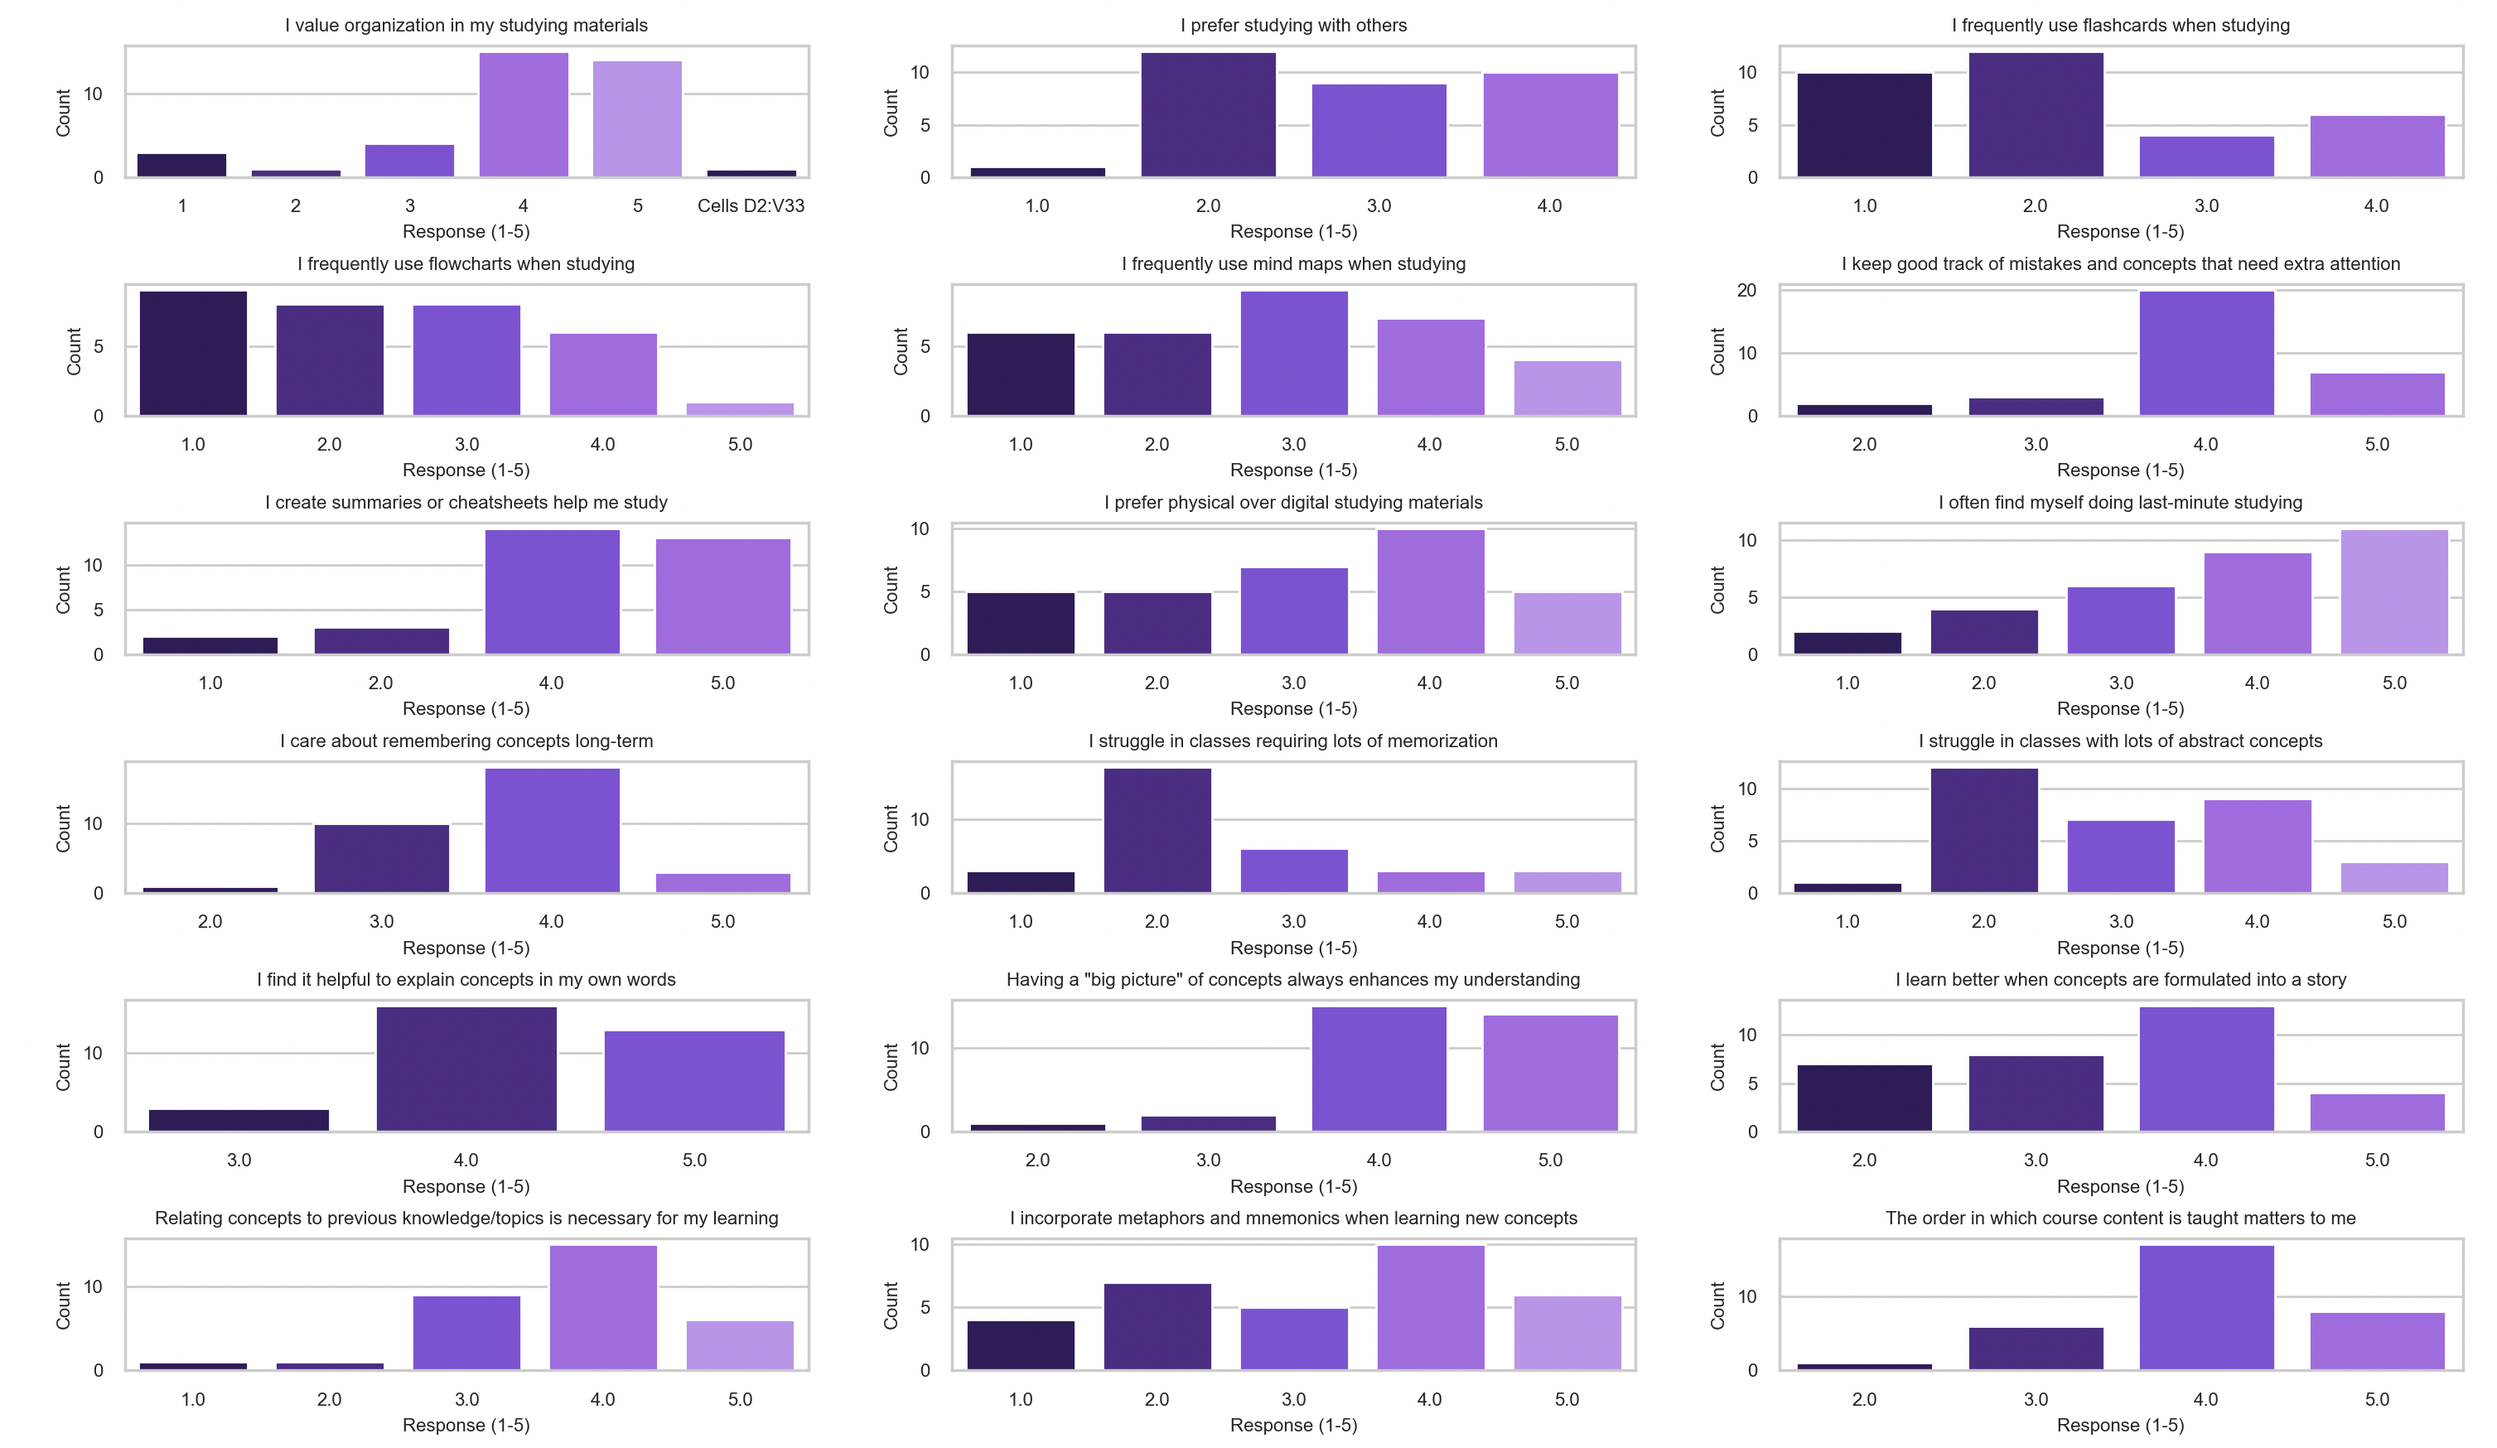
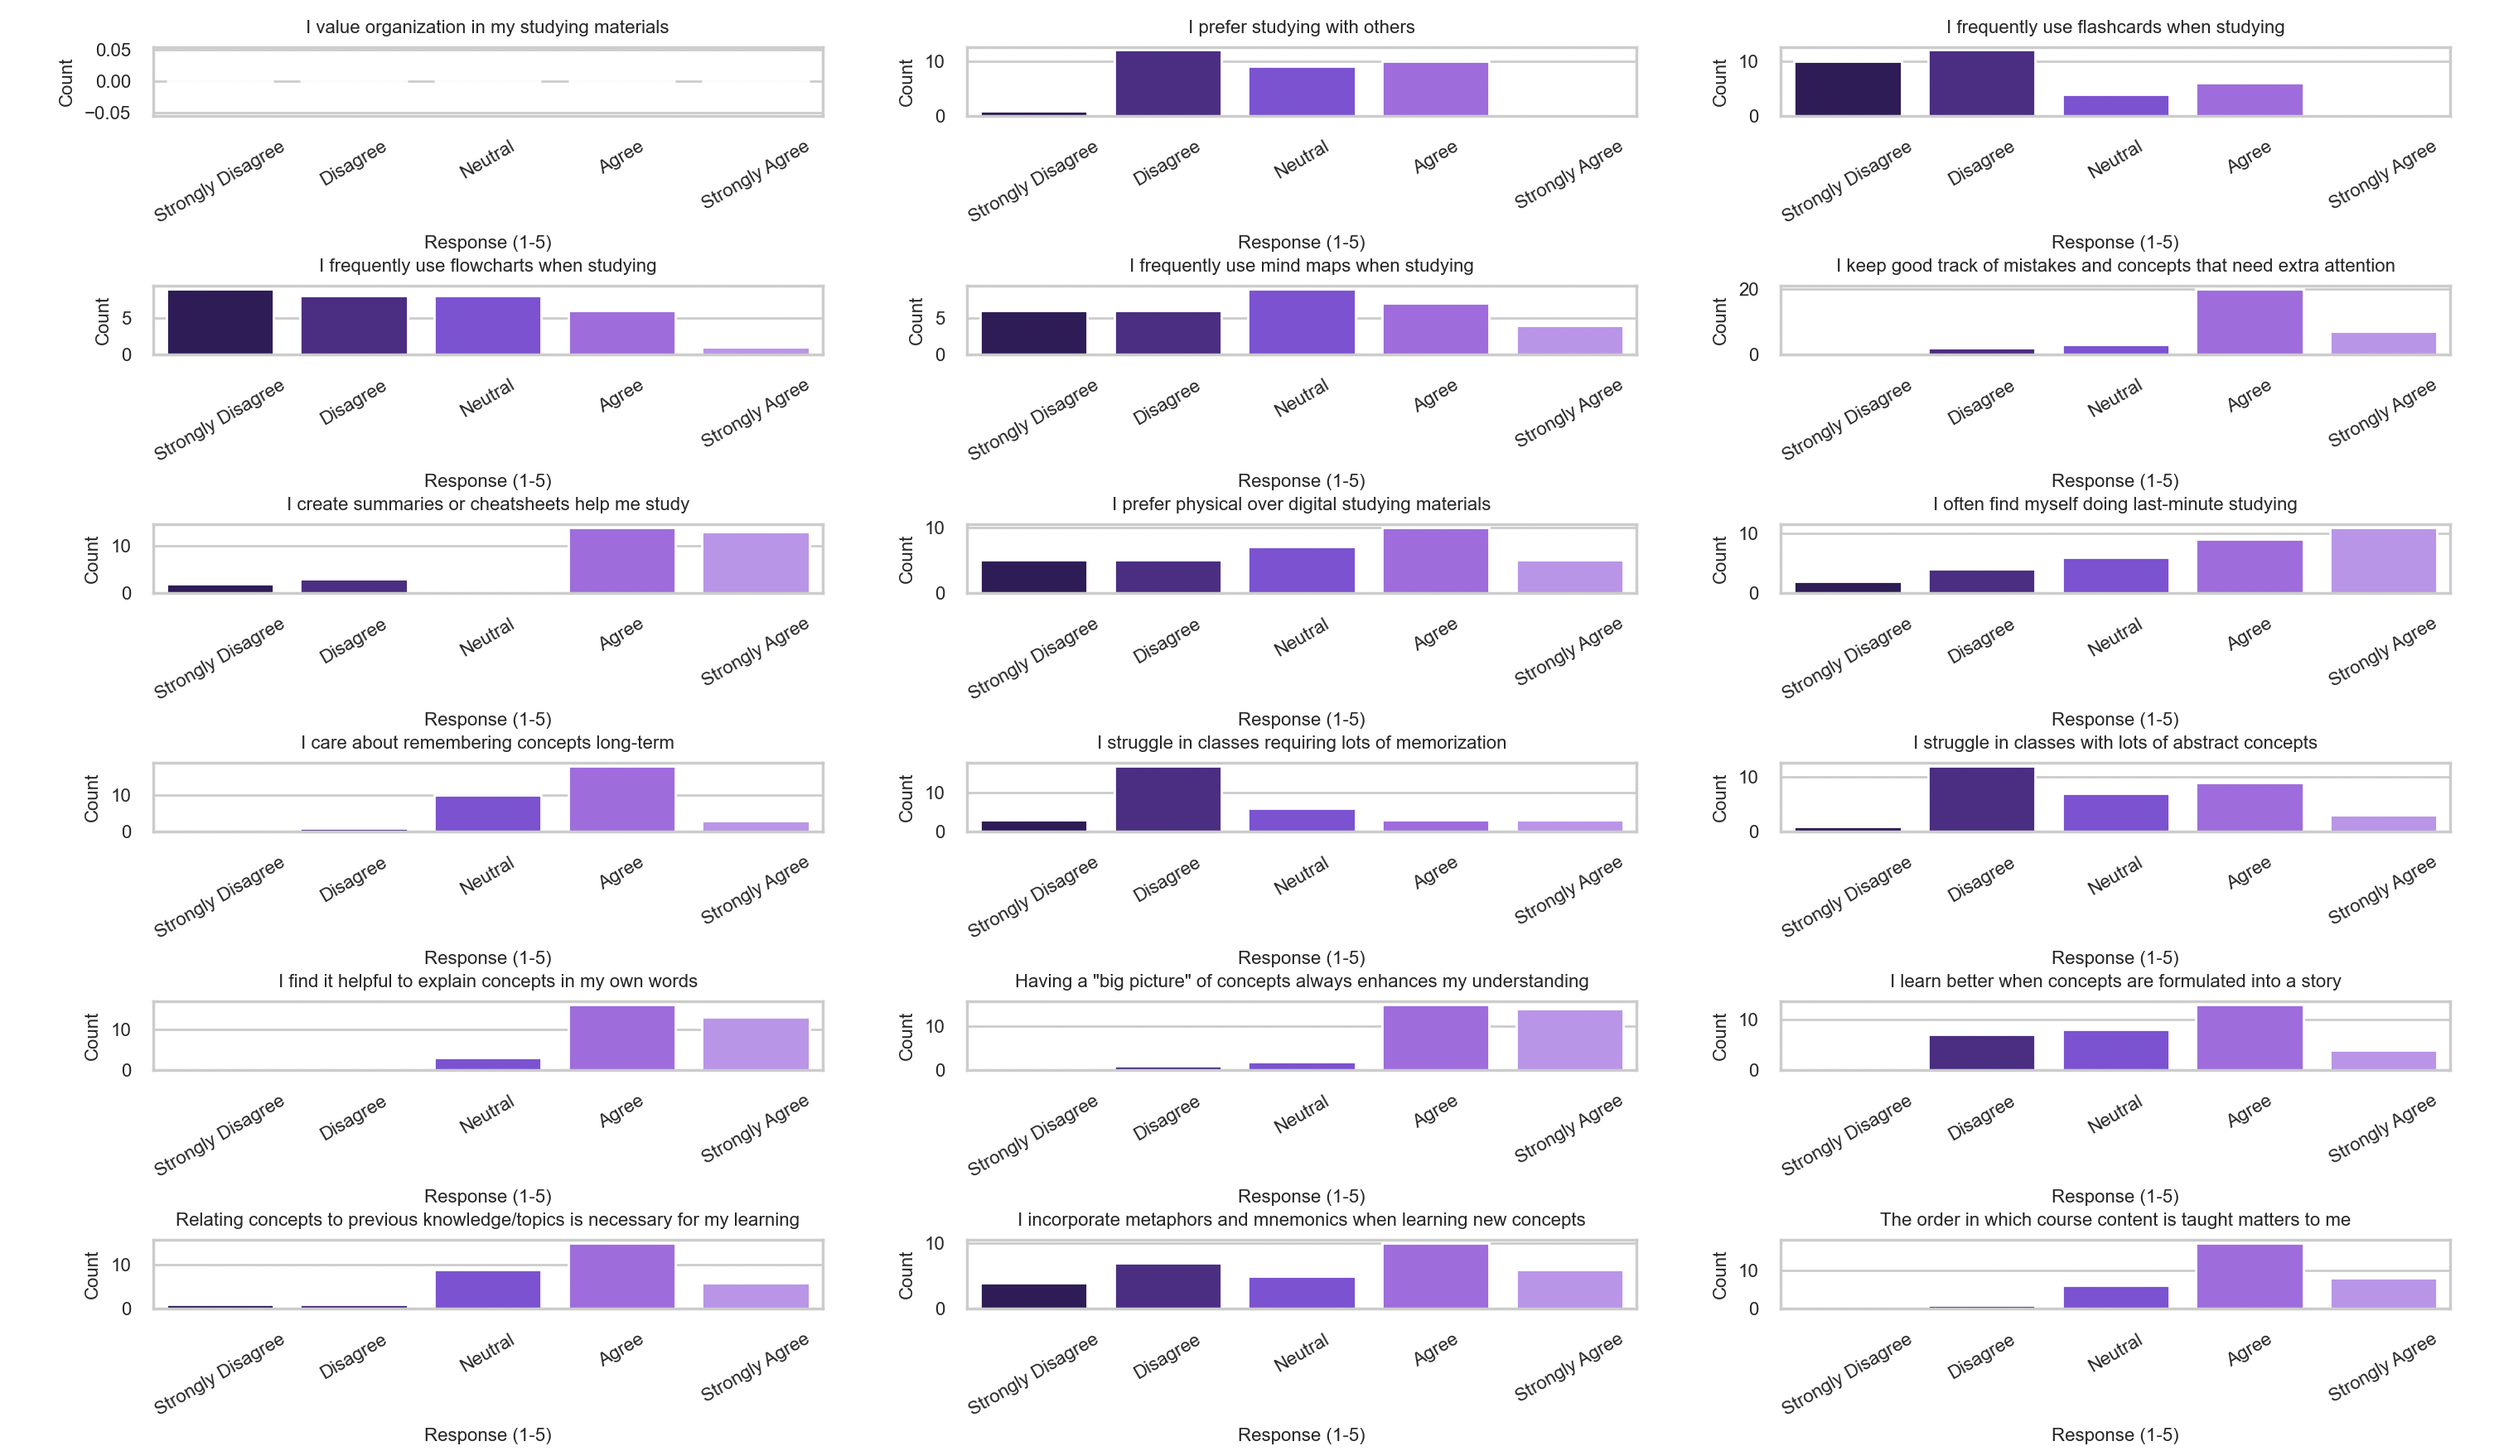
Fixed graph labels

diff --git a/main.py b/main.py
@@ -16,6 +16,7 @@ axes = axes.ravel()
 
 for i, column in enumerate(study_habits.columns):
     counts = study_habits[column].value_counts().sort_index()
+    counts = counts.reindex(range(1, 6), fill_value=0)  # Fill missing with 0
 
     title = re.search(r"\[(.*?)\]", column).group(1)
 
@@ -31,6 +32,13 @@ for i, column in enumerate(study_habits.columns):
     axes[i].set_xlabel("Response (1-5)", fontsize=8)
     axes[i].set_ylabel("Count", fontsize=8)
     axes[i].tick_params(labelsize=8)
+
+    # Set custom x-axis labels
+    axes[i].set_xticks(range(5))  # 0-4 for zero-indexed xtick positions
+    axes[i].set_xticklabels(
+        ["Strongly Disagree", "Disagree", "Neutral", "Agree", "Strongly Agree"],
+        rotation=30,
+    )
 
 for j in range(len(study_habits.columns), len(axes)):
     fig.delaxes(axes[j])
